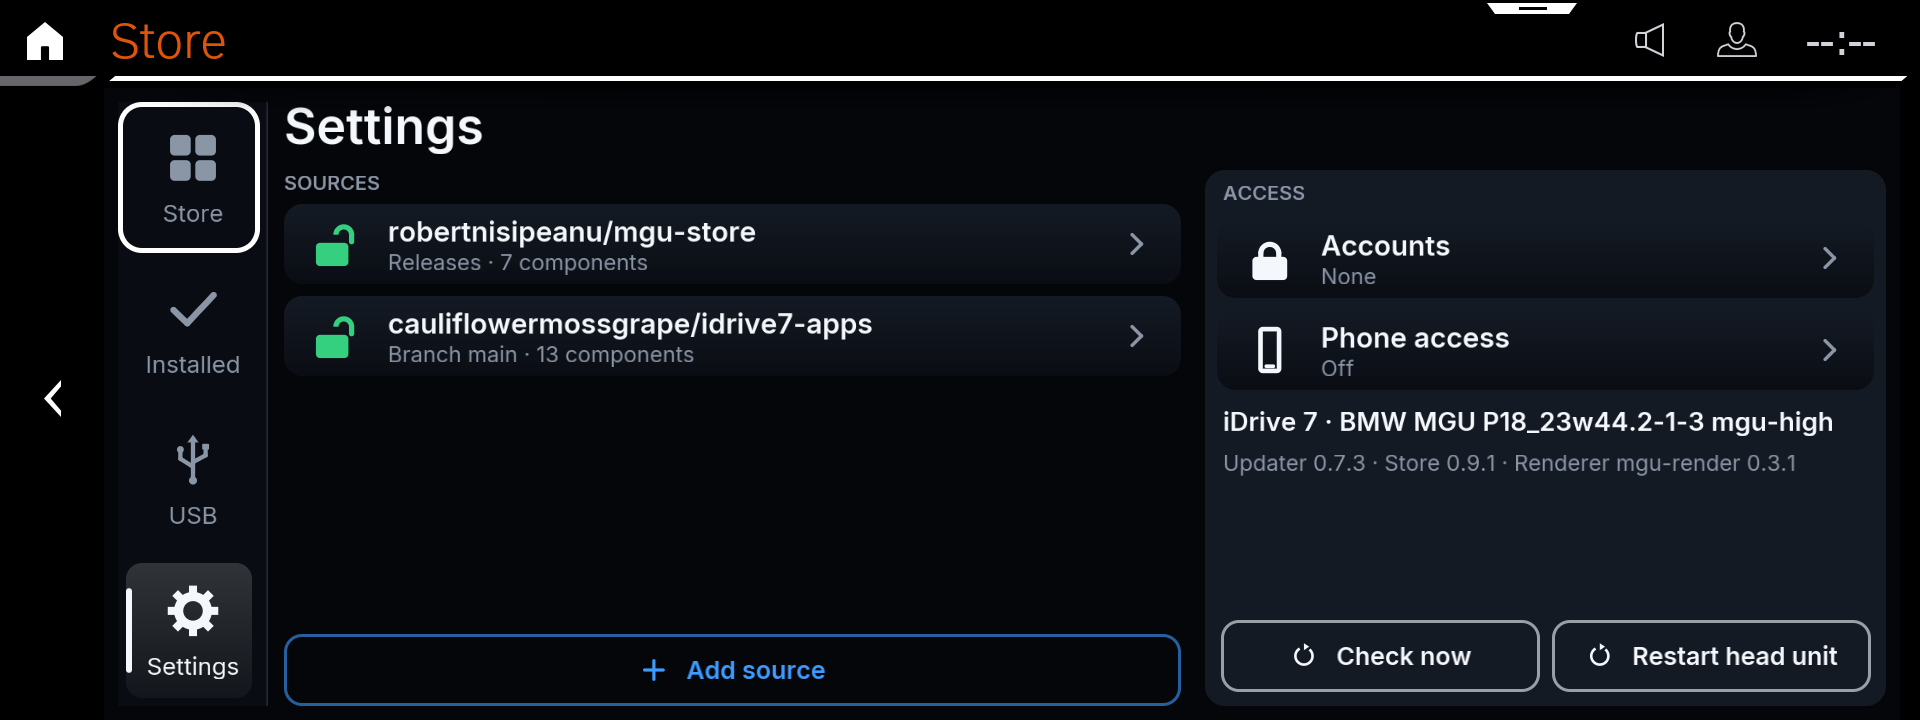
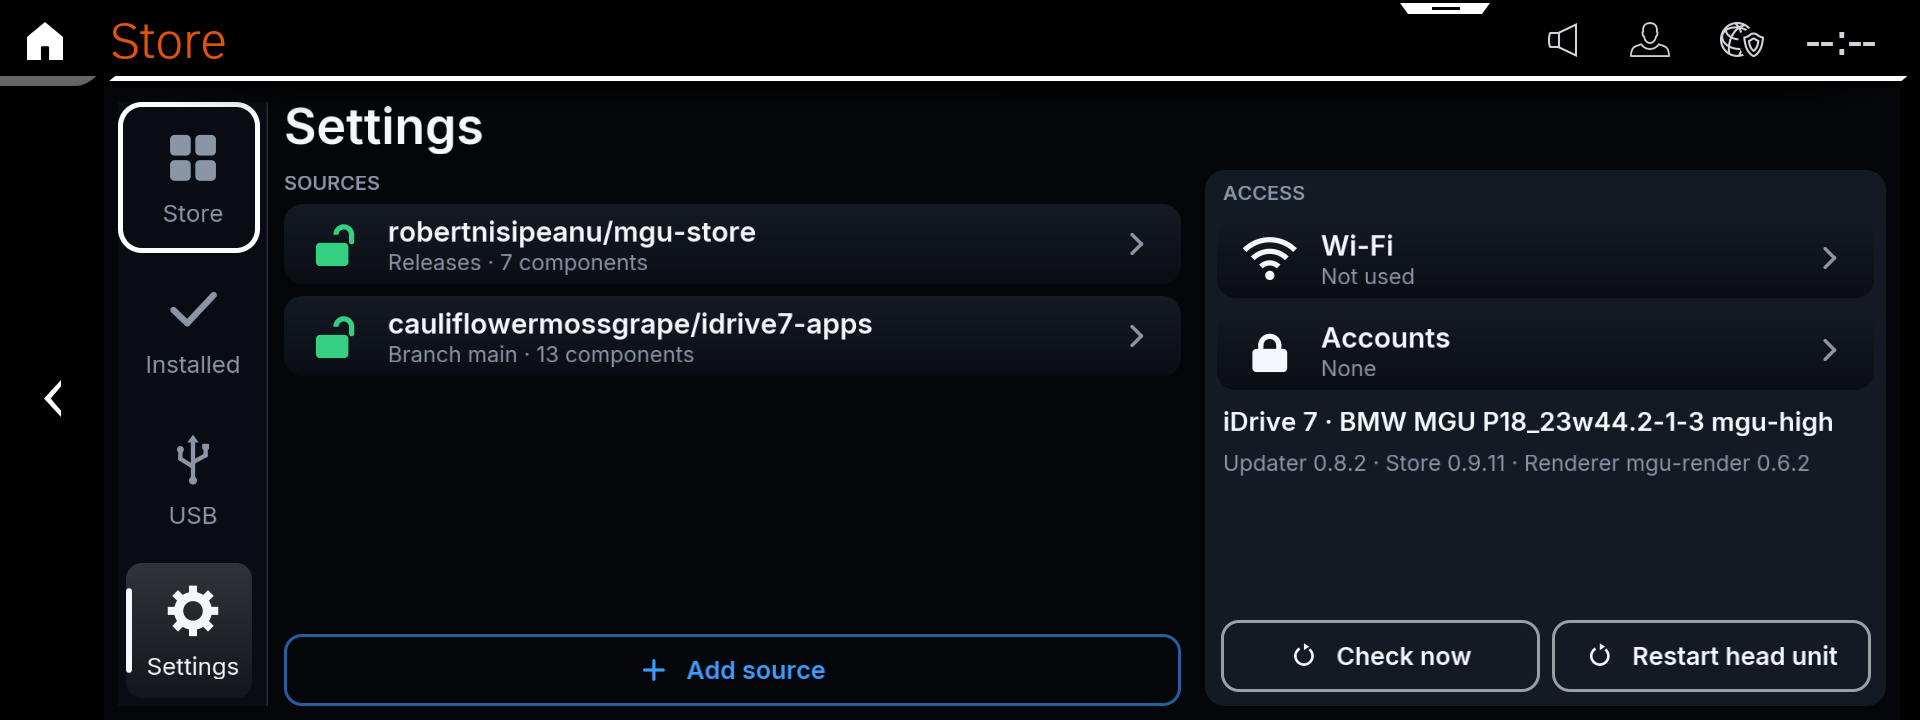
README: Settings screenshot with the Wi-Fi row

diff --git a/README.md b/README.md
@@ -33,7 +33,7 @@ Installed: the apps and tools on the head unit.
 
 Settings: sources, Wi-Fi, accounts and phone access.
 
-![Settings, with the two default sources, Wi-Fi, Accounts, Phone access and Check now](docs/screenshots/settings.png)
+![Settings, with the two default sources, Wi-Fi, Accounts and Check now](docs/screenshots/settings.png)
 
 Adding a GitHub repository: pick its releases, tags or a branch.
 
